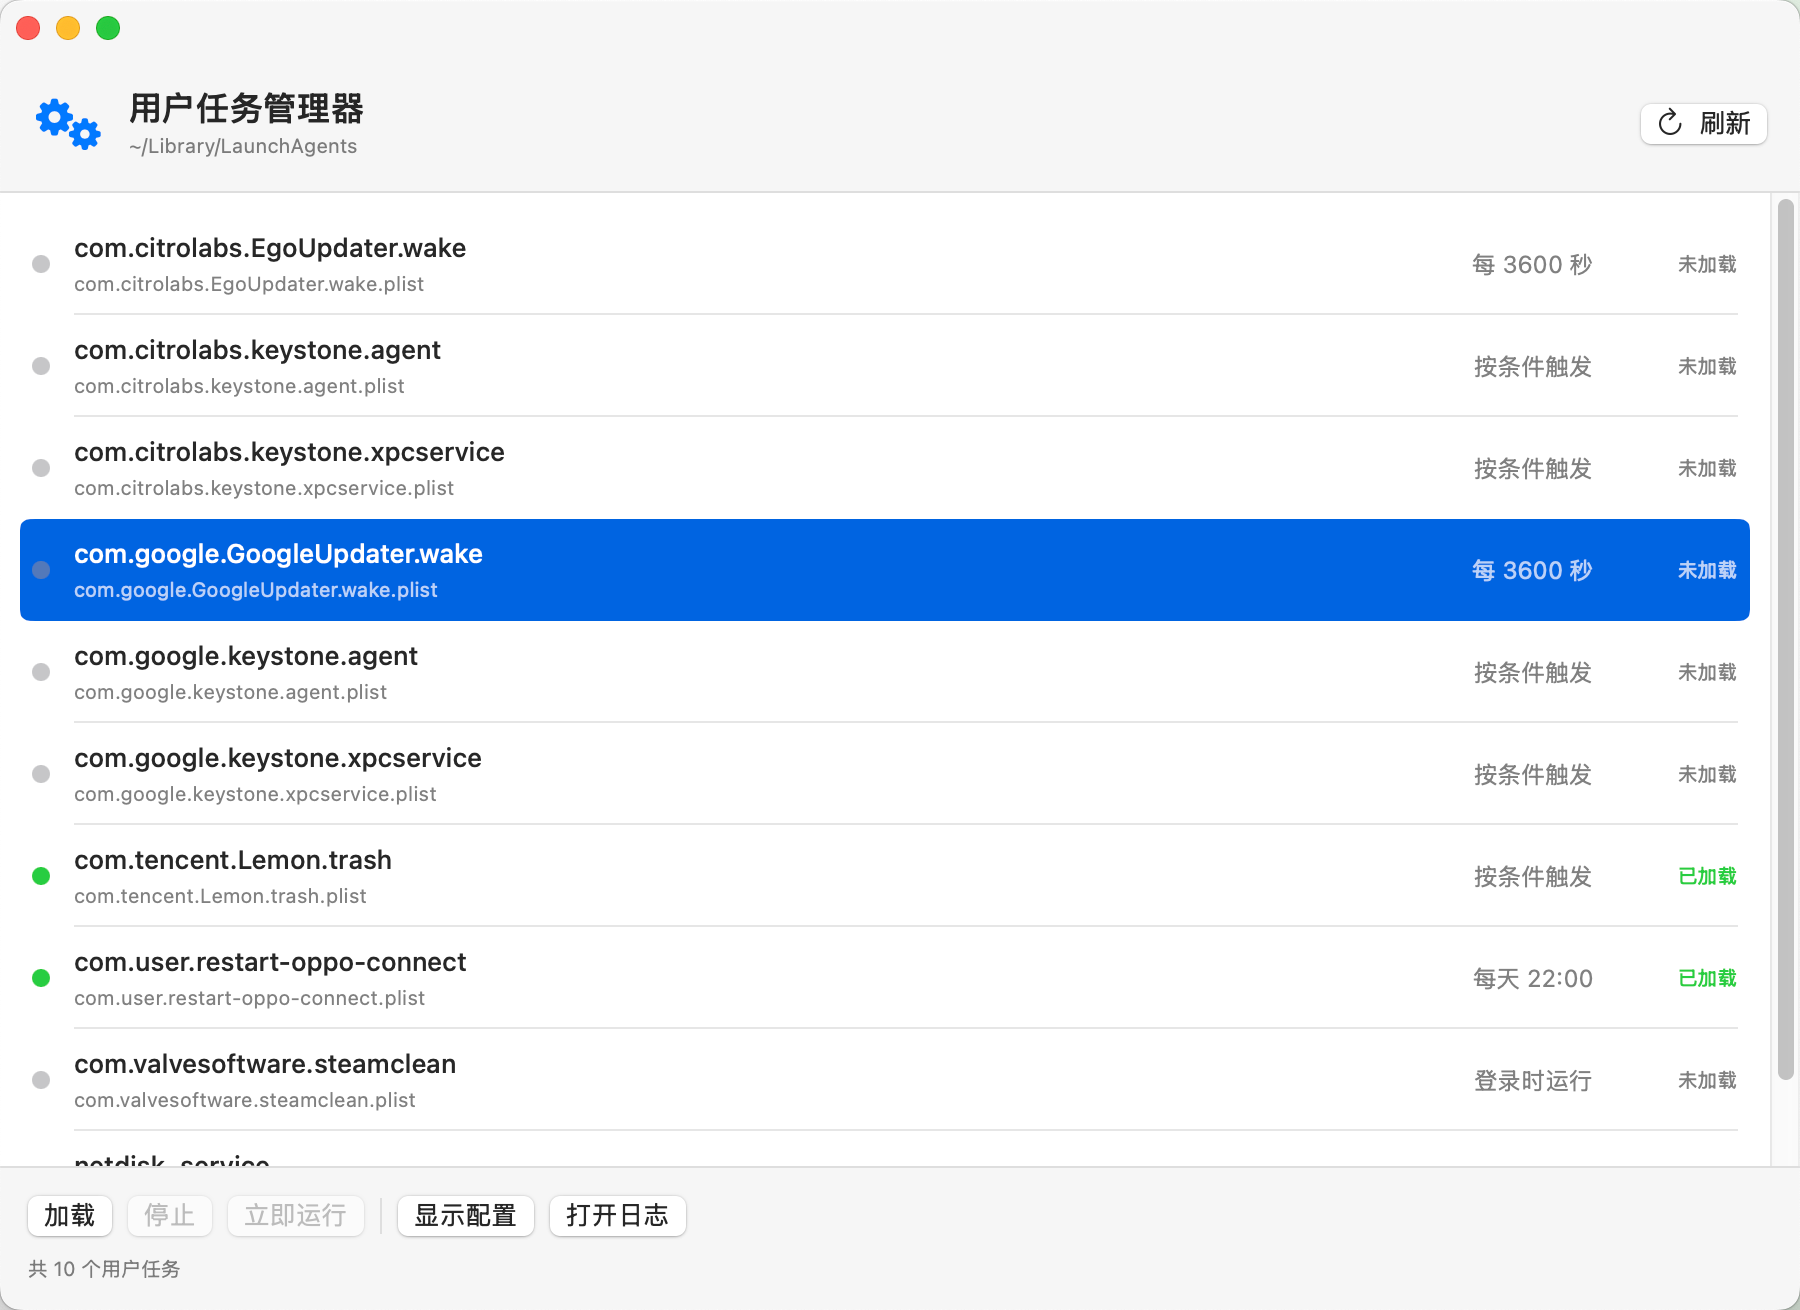
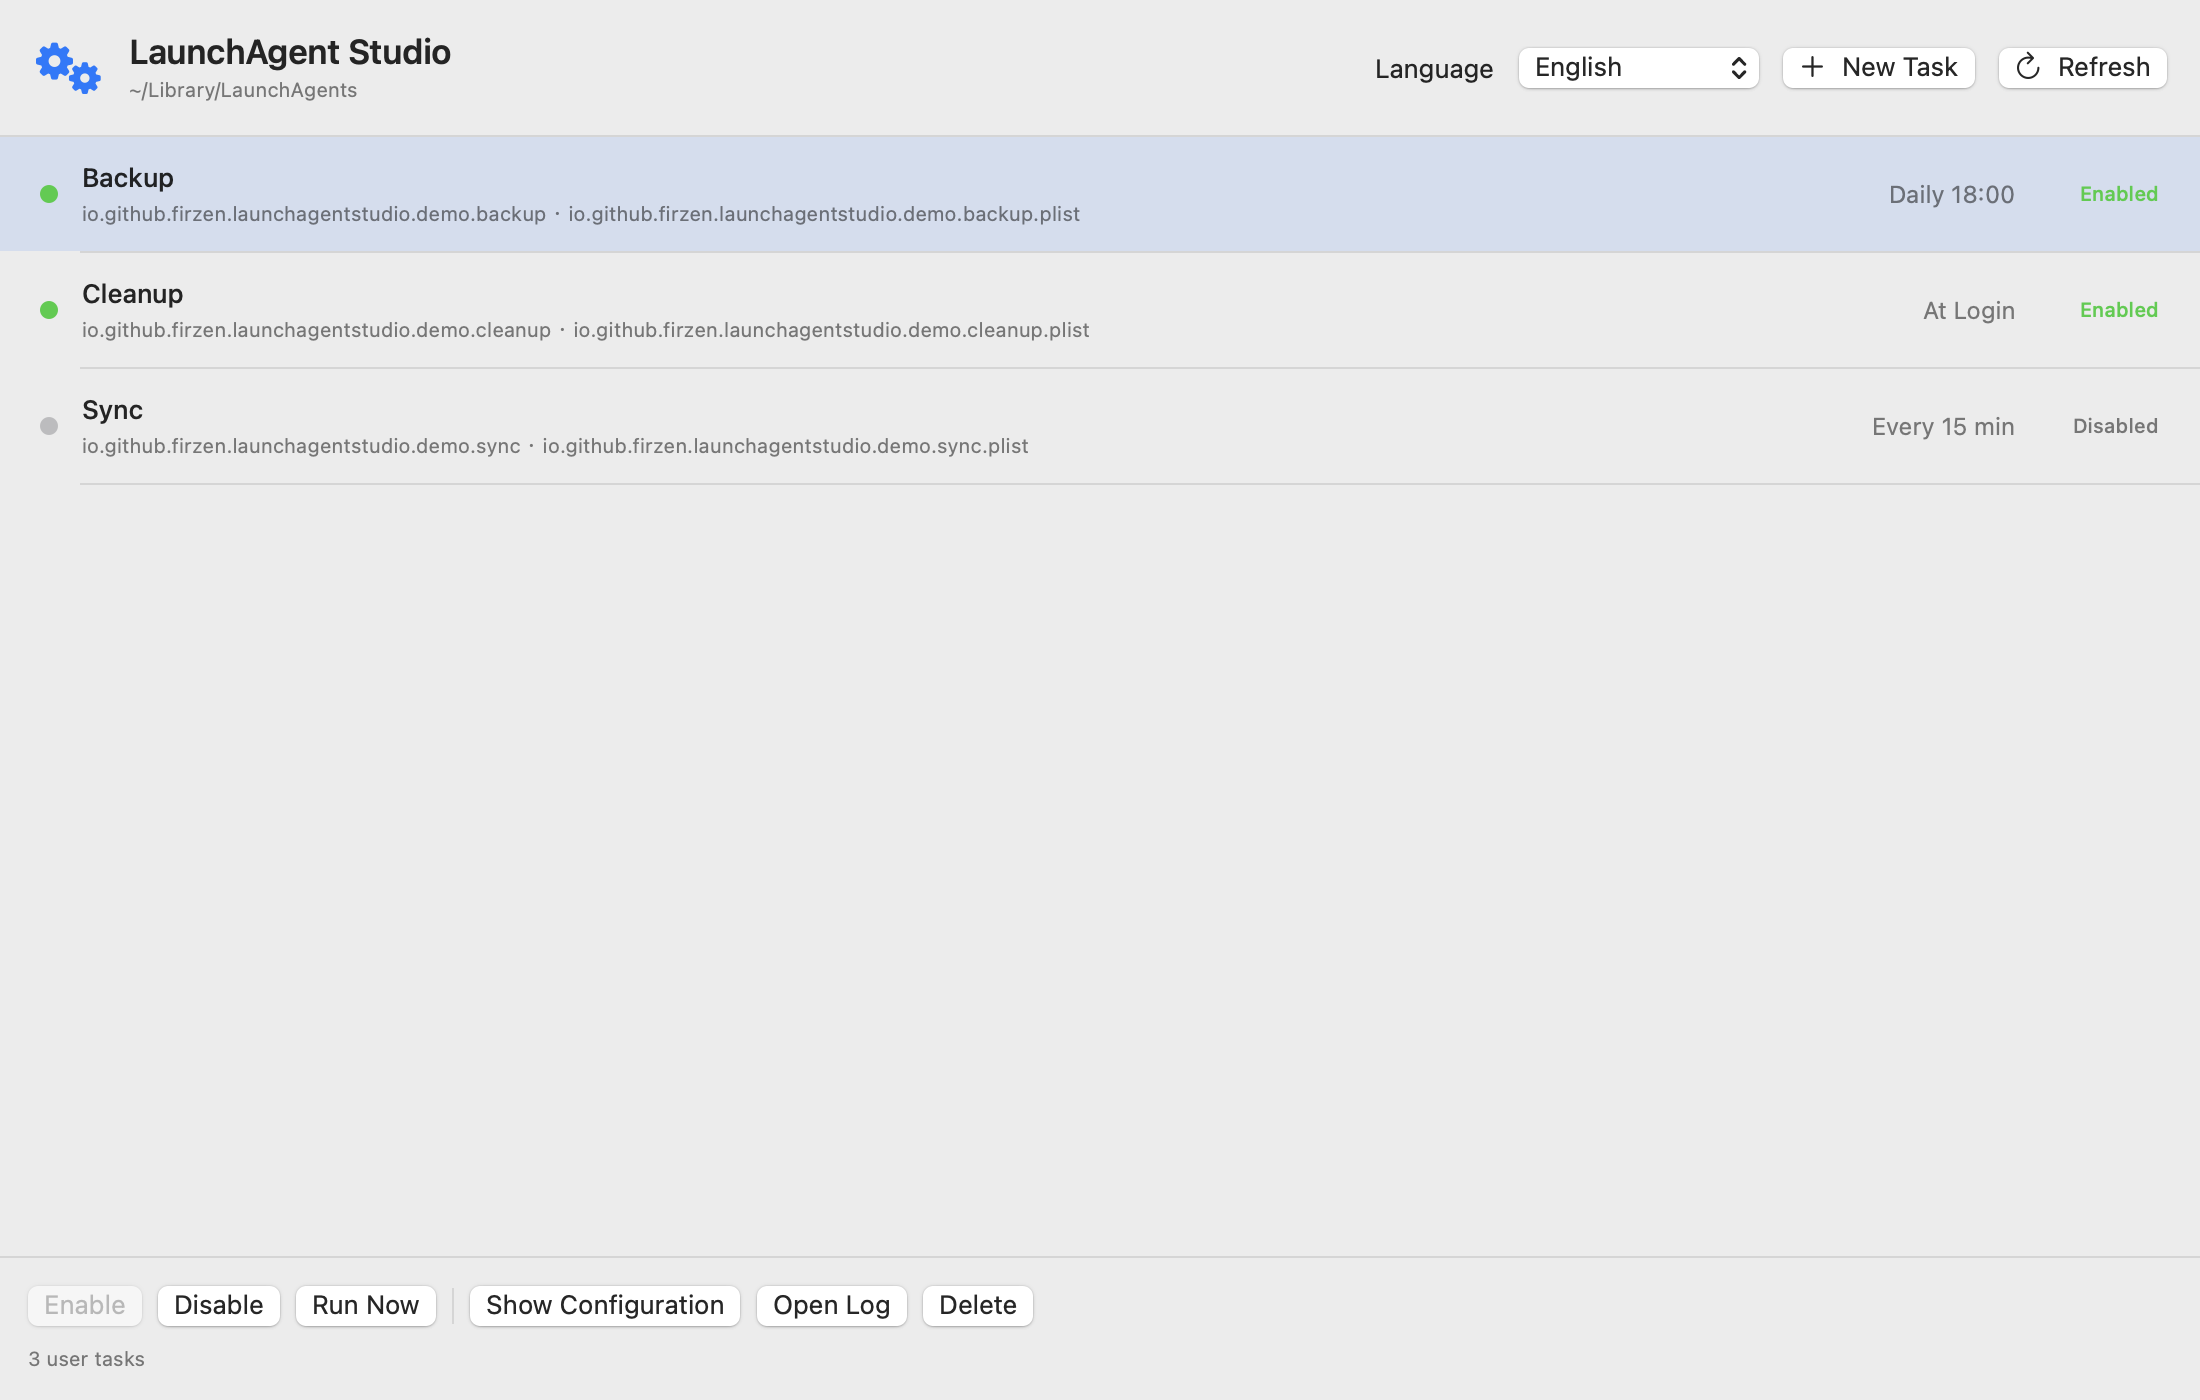
Update README with English interface screenshots

diff --git a/README.md b/README.md
@@ -2,7 +2,15 @@
 
 LaunchAgent Studio is a native macOS utility for viewing, enabling, disabling, running, creating, and deleting user-level `launchd` tasks stored in `~/Library/LaunchAgents`.
 
+## Screenshots
+
+### Main Window
+
 ![LaunchAgent Studio interface](docs/launchagent-studio.png)
+
+### Create a Scheduled Task
+
+![Create a scheduled task](docs/new-task.png)
 
 ## Features
 
